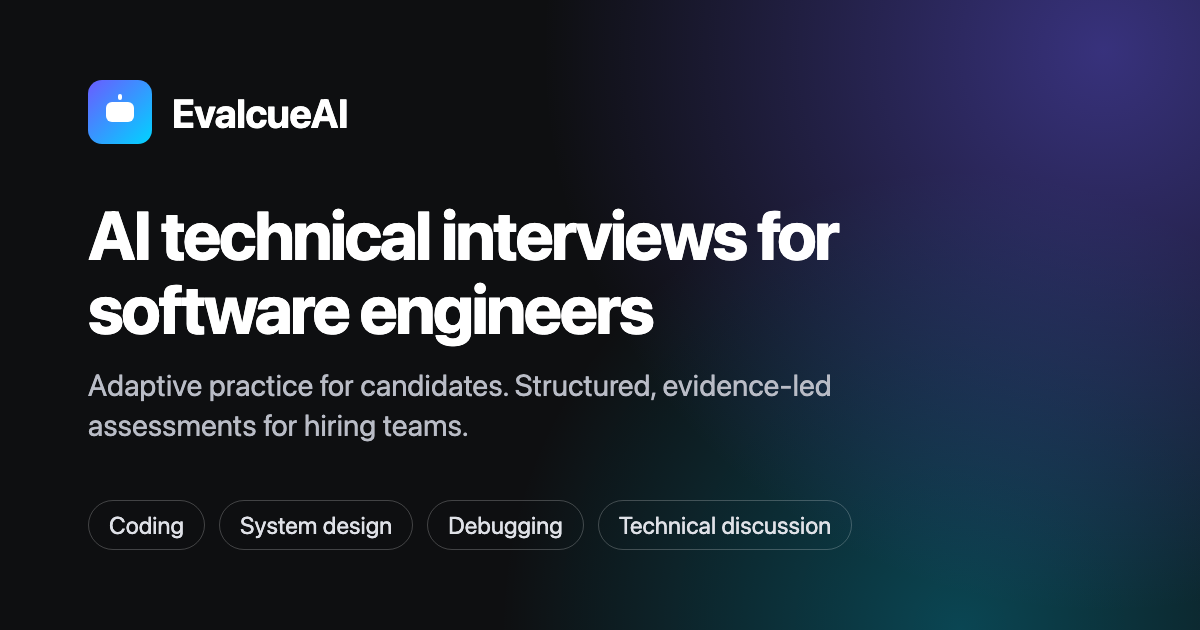
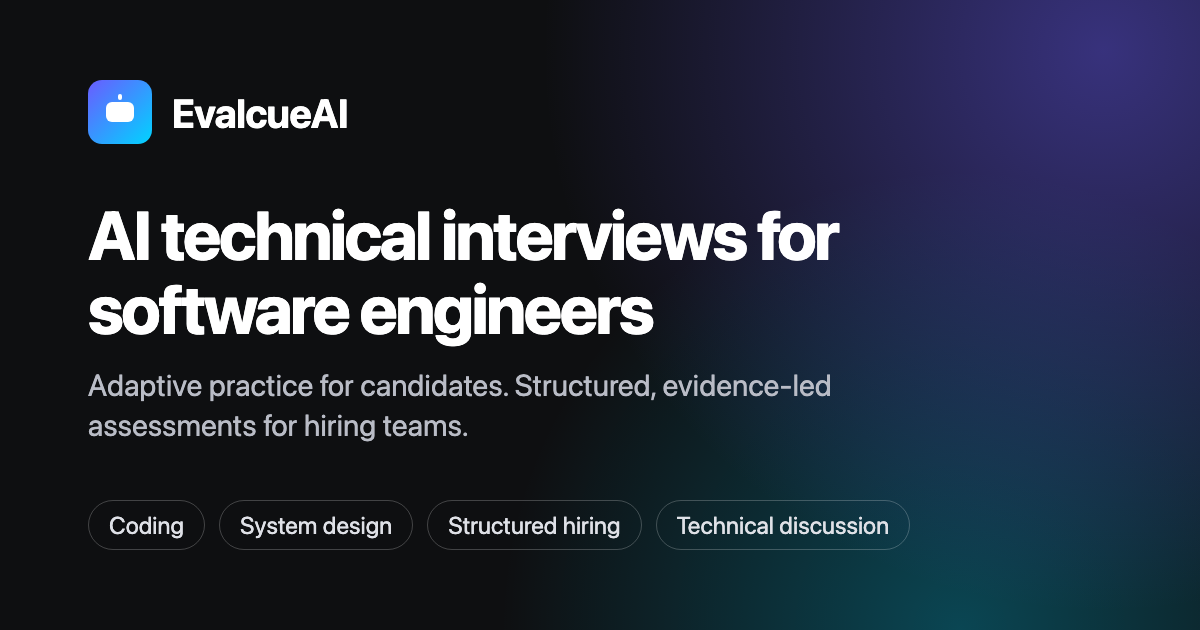
Hide debugging assignment copy behind VITE_ENABLE_DEBUGGING_ASSESSMENTS
Debugging assignments need the code runner, which is not deployed. With the flag off (default), public pages,
SEO metadata, structured data, the sitemap and llms.txt stop promising debugging rounds, hidden tests and
multi-file projects, and the debugging guide page redirects home. The social image drops its Debugging tag.
The server's ENABLE_DEBUGGING_ASSESSMENTS still gates the builder and API.

Changed region(s): [[0.37, 0.8143, 0.74, 0.8746]]

diff --git a/client/src/utils/searchLandingPages.js b/client/src/utils/searchLandingPages.js
@@ -1,3 +1,5 @@
+import { debuggingCopy, debuggingItems } from "./featureFlags.js";
+
 export const SEARCH_LANDING_PAGES = [
     {
         slug: "ai-interview-practice",
@@ -323,11 +325,11 @@ export const SEARCH_LANDING_PAGES = [
             ["Can I practice Java backend interviews?", "Yes. EvalcueAI already includes Java-oriented practice covering core Java, collections, concurrency, and backend engineering topics."],
             ["Are backend interviews only coding interviews?", "No. Many backend roles combine coding with API and database design, debugging, distributed-systems reasoning, production reliability, and system design."],
         ],
-        related: ["system-design-interview-practice", "technical-interview-practice", "debugging-interview-practice"],
+        related: ["system-design-interview-practice", "technical-interview-practice", debuggingCopy("debugging-interview-practice", "software-engineer-interview-practice")],
         practiceResource: "java-interview-questions",
         schema: "TechArticle",
     },
-    {
+    ...debuggingItems({
         slug: "debugging-interview-practice",
         path: "/debugging-interview-practice",
         audience: "Engineers facing debugging or \"fix this codebase\" rounds, and anyone who wants to practice production-style diagnosis.",
@@ -390,7 +392,7 @@ export const SEARCH_LANDING_PAGES = [
         related: ["backend-engineer-interview-practice", "technical-interview-practice", "software-engineer-interview-practice"],
         practiceResource: "software-engineer-mock-interview",
         schema: "TechArticle",
-    },
+    }),
     {
         slug: "system-design",
         path: "/system-design",
@@ -803,11 +805,11 @@ export const SEARCH_LANDING_PAGES = [
         slug: "ai-interview-platform",
         path: "/ai-interview-platform",
         title: "AI Interview Platform for Software Engineering",
-        metaTitle: "AI Interview Platform for Coding, System Design & Debugging | EvalcueAI",
-        description: "EvalcueAI is an AI interview platform built for software engineering: coding, system design, debugging, and technical interviews with adaptive follow-ups, for both candidate practice and structured hiring.",
+        metaTitle: `AI Interview Platform for Coding, System Design ${debuggingCopy("& Debugging", "& Technical Interviews")} | EvalcueAI`,
+        description: `EvalcueAI is an AI interview platform built for software engineering: coding, system design, ${debuggingCopy("debugging, ")}and technical interviews with adaptive follow-ups, for both candidate practice and structured hiring.`,
         eyebrow: "AI interview platform",
         audience: "Software engineers preparing for technical interviews, and engineering teams that want structured, evidence-based technical assessments with human hiring decisions.",
-        intro: "Most AI interview tools are built for general hiring. EvalcueAI is built for engineering: the interviewer runs coding, system-design, debugging, and technical-discussion rounds, asks follow-ups based on what you actually said, and records the evidence behind every score.",
+        intro: `Most AI interview tools are built for general hiring. EvalcueAI is built for engineering: the interviewer runs coding, system-design, ${debuggingCopy("debugging, ")}and technical-discussion rounds, asks follow-ups based on what you actually said, and records the evidence behind every score.`,
         sections: [
             {
                 heading: "What EvalcueAI is",
@@ -822,11 +824,11 @@ export const SEARCH_LANDING_PAGES = [
             {
                 heading: "What it can evaluate",
                 body: "Each round type collects a different kind of engineering signal, so EvalcueAI treats them as separate rounds with their own competencies. It does not run them as one generic question-and-answer session.",
-                points: ["Coding: correctness, complexity, code quality", "System design: requirements, architecture, scale, trade-offs", "Debugging: diagnosis and fixes checked by hidden tests", "Technical depth: trade-offs, failure modes, production judgment"],
+                points: ["Coding: correctness, complexity, code quality", "System design: requirements, architecture, scale, trade-offs", ...debuggingItems("Debugging: diagnosis and fixes checked by hidden tests"), "Technical depth: trade-offs, failure modes, production judgment"],
             },
         ],
         faq: [
-            ["What is EvalcueAI?", "EvalcueAI is an AI interview platform for software engineering. Engineers use it to practice coding, system-design, debugging, and technical interviews with adaptive AI follow-ups, and hiring teams use it to run structured engineering assessments with human-reviewed scorecards."],
+            ["What is EvalcueAI?", `EvalcueAI is an AI interview platform for software engineering. Engineers use it to practice coding, system-design, ${debuggingCopy("debugging, ")}and technical interviews with adaptive AI follow-ups, and hiring teams use it to run structured engineering assessments with human-reviewed scorecards.`],
             ["Is EvalcueAI the same as EvalAI?", "No. EvalAI is an open-source platform for evaluating machine-learning models on benchmarks. EvalcueAI is a separate product for software engineering interview practice and technical hiring."],
             ["Does EvalcueAI make hiring decisions?", "No. EvalcueAI produces evidence and scores. Advance, hold, or reject decisions are recorded by a human reviewer, who must write an evidence note to support the decision."],
         ],
@@ -839,15 +841,15 @@ export const SEARCH_LANDING_PAGES = [
         path: "/engineering-assessment",
         title: "Structured Engineering Assessments with AI Interviews",
         metaTitle: "Engineering Assessment Platform with Adaptive AI Interviews | EvalcueAI",
-        description: "Build structured software engineering assessments with coding, system design, debugging, and adaptive technical interviews, then review evidence-based scorecards with human-controlled hiring decisions.",
+        description: `Build structured software engineering assessments with coding, system design, ${debuggingCopy("debugging, ")}and adaptive technical interviews, then review evidence-based scorecards with human-controlled hiring decisions.`,
         eyebrow: "Engineering assessments",
         audience: "Engineering managers, hiring managers, and recruiters hiring software engineers who want consistent technical signal without scheduling a live interviewer for every early-stage candidate.",
-        intro: "A take-home or a single coding test shows only a small part of how an engineer works. EvalcueAI Hire combines coding, system design, debugging, and adaptive technical discussion in one structured assessment, and every score links back to what the candidate actually said or wrote.",
+        intro: `A take-home or a single coding test shows only a small part of how an engineer works. EvalcueAI Hire combines coding, system design, ${debuggingCopy("debugging, ")}and adaptive technical discussion in one structured assessment, and every score links back to what the candidate actually said or wrote.`,
         sections: [
             {
                 heading: "Design the assessment around the role",
                 body: "Start from a job description or a template, choose the rounds, and set the rubric. EvalcueAI turns each round into weighted competencies so every candidate for the role is measured against the same plan.",
-                points: ["Role-specific rounds and weighted competencies", "Coding, system design, debugging, and discussion rounds", "Multi-file debugging projects with hidden tests", "Invite-only links, time windows, and time limits"],
+                points: ["Role-specific rounds and weighted competencies", `Coding, system design, ${debuggingCopy("debugging, ")}and discussion rounds`, ...debuggingItems("Multi-file debugging projects with hidden tests"), "Invite-only links, time windows, and time limits"],
             },
             {
                 heading: "Adaptive interviews, consistent evidence",
@@ -862,7 +864,7 @@ export const SEARCH_LANDING_PAGES = [
         ],
         faq: [
             ["What is an engineering assessment?", "An engineering assessment is a structured evaluation of a software engineering candidate across the skills the role needs, such as coding, system design, debugging, and technical judgment. Every candidate is measured against the same competencies and rubric."],
-            ["How is EvalcueAI different from a coding test?", "A coding test mostly measures whether code passes. EvalcueAI also runs system-design and debugging rounds and asks adaptive follow-ups about trade-offs, failure modes, and resume claims, then shows the evidence behind each score."],
+            ["How is EvalcueAI different from a coding test?", `A coding test mostly measures whether code passes. EvalcueAI also runs system-design ${debuggingCopy("and debugging ")}rounds and asks adaptive follow-ups about trade-offs, failure modes, and resume claims, then shows the evidence behind each score.`],
             ["Can candidates be rejected automatically?", "No. EvalcueAI does not make employment decisions. A human reviewer records every decision along with a written evidence note."],
         ],
         related: ["ai-interview-platform", "ai-interview-evaluation-methodology", "system-design-interview-practice"],
@@ -875,7 +877,7 @@ export const SEARCH_LANDING_PAGES = [
         path: "/ai-interview-evaluation-methodology",
         title: "How EvalcueAI Evaluates Engineering Interviews",
         metaTitle: "AI Interview Evaluation Methodology: Scoring, Follow-ups & Difficulty | EvalcueAI",
-        description: "How EvalcueAI plans competencies, scores answers with evidence and confidence, chooses follow-up questions, adapts difficulty, evaluates coding, system design, and debugging, and keeps hiring decisions with humans.",
+        description: `How EvalcueAI plans competencies, scores answers with evidence and confidence, chooses follow-up questions, adapts difficulty, evaluates coding${debuggingCopy(", system design, and debugging", " and system design")}, and keeps hiring decisions with humans.`,
         eyebrow: "Evaluation methodology",
         audience: "Engineers who want to know how their practice answers are judged, and hiring teams deciding whether they can trust EvalcueAI's scorecards.",
         intro: "\"AI-powered\" tells you nothing about how answers are judged. This page explains, step by step, how an EvalcueAI round decides what to measure, how answers are scored, how the next question is chosen, and where a human stays in control.",
@@ -911,9 +913,9 @@ export const SEARCH_LANDING_PAGES = [
                 points: ["Interjection types: clarify, challenge, constraint, scale", "Also: failure, trade-off, security, observability", "Grounded in what you said or drew", "No hints and no ideal answer revealed"],
             },
             {
-                heading: "7. Coding and debugging are checked by running code",
-                body: "Coding answers run in a sandboxed execution service that supports JavaScript, Python, Java, and C++, and they are judged on correctness, complexity, and code quality alongside your explanation. Debugging rounds use realistic multi-file projects. In fix mode, your change is graded against hidden tests you cannot see, and assignments are validated so those tests fail only because of the intended bug. In findings mode, you submit a written diagnosis that is reviewed.",
-                points: ["Sandboxed code execution in four languages", "Multi-file debugging projects", "Fixes graded by hidden tests", "Assignments validated against unrelated failures"],
+                heading: `7. Coding ${debuggingCopy("and debugging are", "is")} checked by running code`,
+                body: `Coding answers run in a sandboxed execution service that supports JavaScript, Python, Java, and C++, and they are judged on correctness, complexity, and code quality alongside your explanation.${debuggingCopy(" Debugging rounds use realistic multi-file projects. In fix mode, your change is graded against hidden tests you cannot see, and assignments are validated so those tests fail only because of the intended bug. In findings mode, you submit a written diagnosis that is reviewed.")}`,
+                points: ["Sandboxed code execution in four languages", ...debuggingItems("Multi-file debugging projects", "Fixes graded by hidden tests", "Assignments validated against unrelated failures")],
             },
             {
                 heading: "8. A correct answer is not the same as a good engineering answer",
@@ -945,7 +947,7 @@ export const SEARCH_LANDING_PAGES = [
             ["Can EvalcueAI invent questions about my resume?", "Resume questions must be based on claims that actually appear in your resume. Generated questions are checked for details that aren't in your resume or job description, and resume probing is capped at two questions per round."],
             ["Who decides whether a candidate advances?", "A human reviewer. EvalcueAI does not make employment decisions."],
         ],
-        related: ["ai-interview-platform", "system-design-interview-practice", "debugging-interview-practice"],
+        related: ["ai-interview-platform", "system-design-interview-practice", debuggingCopy("debugging-interview-practice", "technical-interview-practice")],
         practiceResource: "software-engineer-mock-interview",
         schema: "TechArticle",
     },
@@ -954,7 +956,7 @@ export const SEARCH_LANDING_PAGES = [
         path: "/about",
         title: "About EvalcueAI",
         metaTitle: "About EvalcueAI | AI Interview Practice & Technical Hiring for Engineers",
-        description: "EvalcueAI is AI interview practice and structured technical hiring for software engineers: coding, system design, debugging, and technical interviews with adaptive follow-ups.",
+        description: `EvalcueAI is AI interview practice and structured technical hiring for software engineers: coding, system design, ${debuggingCopy("debugging, ")}and technical interviews with adaptive follow-ups.`,
         eyebrow: "About",
         audience: "Engineers preparing for technical interviews and teams looking for a more consistent way to assess candidates.",
         intro: "Technical interviews should reveal how someone approaches a problem. EvalcueAI helps engineers practice that process and helps hiring teams review it through structured assessments, adaptive follow-ups, and feedback grounded in the work submitted.",
@@ -967,7 +969,7 @@ export const SEARCH_LANDING_PAGES = [
             {
                 heading: "Supported interview types",
                 body: "Each round type is a separate interview with its own competencies. Rounds can be combined to match a real interview loop.",
-                points: ["Coding with code execution", "Live system design with an architecture canvas", "Debugging on multi-file projects with hidden tests", "Technical, backend, project-depth, and behavioral discussion"],
+                points: ["Coding with code execution", "Live system design with an architecture canvas", ...debuggingItems("Debugging on multi-file projects with hidden tests"), "Technical, backend, project-depth, and behavioral discussion"],
             },
             {
                 heading: "Terminology",

diff --git a/client/vite.config.js b/client/vite.config.js
@@ -1,3 +1,4 @@
+import "./buildEnv.js";
 import { mkdir, readFile, writeFile } from "node:fs/promises";
 import path from "node:path";
 import process from "node:process";
@@ -9,6 +10,7 @@ import {
     resourcePathsForSurface,
 } from "./src/utils/productResourcePages.js";
 import { applyStaticSeoHtml, escapeHtml, renderSeoHead } from "./src/utils/staticSeoHtml.js";
+import { debuggingCopy } from "./src/utils/featureFlags.js";
 import {
     SEARCH_LANDING_PAGES,
     searchLandingPaths,
@@ -21,6 +23,8 @@ import {
     BRAND_URLS,
     BUSINESS_LEGAL_NAME,
     HIRING_PLAN_SUMMARY,
+    HOME_DESCRIPTION,
+    HOME_TITLE,
     INTERVIEW_TYPES,
     PRACTICE_PLANS,
     breadcrumbSchema,
@@ -91,22 +95,22 @@ const resourcePageForRoute = (route) => PRODUCT_RESOURCE_PAGES.find((page) => re
 
 const STATIC_PRODUCT_COPY = {
     "/": {
-        title: "EvalcueAI | AI Coding, System Design & Debugging Interviews for Engineers",
-        description: "EvalcueAI is AI interview practice and structured technical hiring for software engineers: coding, system design, debugging, and technical interviews with adaptive AI follow-ups.",
+        title: HOME_TITLE,
+        description: HOME_DESCRIPTION,
         heading: "AI interview practice and structured technical hiring for software engineers",
-        intro: "Practice realistic coding, system-design, debugging, and technical interviews with adaptive AI follow-ups, or build evidence-focused engineering assessments for your hiring team.",
+        intro: `Practice realistic coding, system-design, ${debuggingCopy("debugging, ")}and technical interviews with adaptive AI follow-ups, or build evidence-focused engineering assessments for your hiring team.`,
     },
     "/practice": {
         title: "AI Technical Interview Practice for Software Engineers | EvalcueAI",
         description: "Practice role-specific software engineering interviews with adaptive follow-ups, coding rounds, system design, resume context, and evidence-backed feedback.",
         heading: "AI technical interview practice for software engineers",
-        intro: "Run role-specific mock interviews across technical discussion, coding, system design, debugging, and project depth, then review the evidence and feedback from each session.",
+        intro: `Run role-specific mock interviews across technical discussion, coding, system design, ${debuggingCopy("debugging, ")}and project depth, then review the evidence and feedback from each session.`,
     },
     "/hire": {
         title: "Structured Technical Hiring & AI Candidate Assessments | EvalcueAI",
         description: "Create structured engineering assessments, invite candidates, run adaptive technical interviews, and review evidence-rich scorecards with human-controlled hiring decisions.",
         heading: "Structured technical hiring for software engineering teams",
-        intro: "Create role-specific technical assessments across discussion, coding, system design, and debugging while keeping candidate evidence review and employment decisions human-controlled.",
+        intro: `Create role-specific technical assessments across discussion, coding, ${debuggingCopy("system design, and debugging", "and system design")} while keeping candidate evidence review and employment decisions human-controlled.`,
     },
 };
 

diff --git a/client/src/utils/brandEntity.js b/client/src/utils/brandEntity.js
@@ -2,11 +2,15 @@
 // Imported by the Vite prerender (vite.config.js), the runtime SEO component, and /llms.txt, so the
 // name, positioning, official URLs, and plan facts stay identical everywhere they are published.
 
+import { debuggingCopy, debuggingItems } from "./featureFlags.js";
+
 export const BRAND_NAME = "EvalcueAI";
 export const BUSINESS_LEGAL_NAME = "SAURABH MAURYA";
 export const BRAND_TAGLINE = "AI interview practice and structured technical hiring for software engineers";
-export const BRAND_POSITIONING = "Coding, system design, debugging, and technical interviews with adaptive AI follow-ups and structured engineering assessments.";
-export const BRAND_DESCRIPTION = `${BRAND_NAME} is a browser-based platform for software engineering interviews. Engineers practice coding, system-design, debugging, and technical-discussion rounds with an AI interviewer that asks adaptive follow-ups based on their answers. Hiring teams build structured engineering assessments and review evidence-based scorecards, with every hiring decision made by a human reviewer.`;
+export const BRAND_POSITIONING = `Coding, system design, ${debuggingCopy("debugging, ")}and technical interviews with adaptive AI follow-ups and structured engineering assessments.`;
+export const HOME_TITLE = `EvalcueAI | AI Coding, System Design & ${debuggingCopy("Debugging", "Technical")} Interviews for Engineers`;
+export const HOME_DESCRIPTION = `EvalcueAI is AI interview practice and structured technical hiring for software engineers: coding, system design, ${debuggingCopy("debugging, ")}and technical interviews with adaptive AI follow-ups.`;
+export const BRAND_DESCRIPTION = `${BRAND_NAME} is a browser-based platform for software engineering interviews. Engineers practice coding, system-design, ${debuggingCopy("debugging, ")}and technical-discussion rounds with an AI interviewer that asks adaptive follow-ups based on their answers. Hiring teams build structured engineering assessments and review evidence-based scorecards, with every hiring decision made by a human reviewer.`;
 
 export const BRAND_URLS = Object.freeze({
     landing: "https://evalcueai.com",
@@ -32,7 +36,7 @@ export const HIRING_PLAN_SUMMARY = "Hiring teams can start with a pilot and move
 export const INTERVIEW_TYPES = Object.freeze([
     "Coding rounds with code execution in JavaScript, Python, Java, and C++",
     "Live system-design discussion with an architecture canvas and interviewer interjections",
-    "Debugging rounds on multi-file projects, graded against hidden tests or written findings",
+    ...debuggingItems("Debugging rounds on multi-file projects, graded against hidden tests or written findings"),
     "Technical discussion by voice or text with adaptive follow-up questions",
     "Backend, distributed-systems, and project-depth rounds that probe resume claims",
     "Behavioral and ownership rounds",

diff --git a/client/src/pages/LandingPage.jsx b/client/src/pages/LandingPage.jsx
@@ -6,12 +6,13 @@ import { AuthContext } from "../context/AuthContext";
 import SiteFooter from "../components/SiteFooter";
 import PublicSiteFrame from "../components/PublicSiteFrame";
 import { setWorkspacePreference } from "../utils/workspacePreference";
+import { DEBUGGING_ASSESSMENTS_ENABLED } from "../utils/featureFlags";
 
 const guides = [
     ["01", "Coding interviews", "Practice implementation, explain your approach, and respond to follow-up questions.", "/coding-interview-practice"],
     ["02", "System design", "Work through requirements, architecture, and the trade-offs behind your decisions.", "/system-design-interview-practice"],
-    ["03", "Debugging", "Investigate a failing system and show how you isolate and resolve the problem.", "/debugging-interview-practice"],
-    ["04", "Technical discussion", "Go deeper on backend engineering, project experience, and technical judgment.", "/technical-interview-practice"],
+    ...(DEBUGGING_ASSESSMENTS_ENABLED ? [["03", "Debugging", "Investigate a failing system and show how you isolate and resolve the problem.", "/debugging-interview-practice"]] : []),
+    [DEBUGGING_ASSESSMENTS_ENABLED ? "04" : "03", "Technical discussion", "Go deeper on backend engineering, project experience, and technical judgment.", "/technical-interview-practice"],
 ];
 
 export default function LandingPage() {
@@ -57,7 +58,7 @@ export default function LandingPage() {
                 </Grid>
             </Grid>
             <Stack direction={{ xs: "column", sm: "row" }} spacing={{ xs: 1, sm: 4 }} sx={{ py: 2.5, borderTop: "1px solid", borderBottom: "1px solid", borderColor: "divider" }}>
-                {["Coding, design, debugging & discussion", "Follow-ups shaped by your answers", "Hiring decisions reviewed by people"].map((text) => <Typography key={text} variant="body2" color="text.secondary">{text}</Typography>)}
+                {[DEBUGGING_ASSESSMENTS_ENABLED ? "Coding, design, debugging & discussion" : "Coding, design & technical discussion", "Follow-ups shaped by your answers", "Hiring decisions reviewed by people"].map((text) => <Typography key={text} variant="body2" color="text.secondary">{text}</Typography>)}
             </Stack>
             <Box component="section" sx={{ py: { xs: 7, md: 10 } }} aria-labelledby="products-heading">
                 <Typography variant="overline">Two ways to use EvalcueAI</Typography>

diff --git a/client/index.html b/client/index.html
@@ -27,17 +27,17 @@
     <noscript><style>#root > [data-static-seo] { opacity: 1; animation: none; }</style></noscript>
     <script src="/theme-init.js"></script>
     <!-- seo-head:start -->
-    <meta name="description" content="EvalcueAI is AI interview practice and structured technical hiring for software engineers: coding, system design, debugging, and technical interviews with adaptive AI follow-ups." />
+    <meta name="description" content="EvalcueAI is AI interview practice and structured technical hiring for software engineers: coding, system design, and technical interviews with adaptive AI follow-ups." />
     <meta name="robots" content="index,follow" />
-    <meta property="og:title" content="EvalcueAI | AI Coding, System Design & Debugging Interviews for Engineers" />
-    <meta property="og:description" content="EvalcueAI is AI interview practice and structured technical hiring for software engineers: coding, system design, debugging, and technical interviews with adaptive AI follow-ups." />
+    <meta property="og:title" content="EvalcueAI | AI Coding, System Design & Technical Interviews for Engineers" />
+    <meta property="og:description" content="EvalcueAI is AI interview practice and structured technical hiring for software engineers: coding, system design, and technical interviews with adaptive AI follow-ups." />
     <meta property="og:type" content="website" />
     <meta property="og:site_name" content="EvalcueAI" />
     <meta property="og:locale" content="en_US" />
     <meta name="twitter:card" content="summary" />
-    <meta name="twitter:title" content="EvalcueAI | AI Coding, System Design & Debugging Interviews for Engineers" />
+    <meta name="twitter:title" content="EvalcueAI | AI Coding, System Design & Technical Interviews for Engineers" />
     <meta name="twitter:description" content="Adaptive software engineering interview practice and structured technical hiring with coding, system design, and evidence-led review." />
-    <title>EvalcueAI | AI Coding, System Design & Debugging Interviews for Engineers</title>
+    <title>EvalcueAI | AI Coding, System Design & Technical Interviews for Engineers</title>
     <!-- seo-head:end -->
   </head>
   <body>

diff --git a/client/src/__tests__/debuggingFeatureFlag.test.js b/client/src/__tests__/debuggingFeatureFlag.test.js
@@ -1,0 +1,28 @@
+import { afterEach, describe, expect, it, vi } from "vitest";
+
+// Debugging assignments need the code runner, so public copy must not promise them until the flag is on.
+const loadPublicCopy = async (flag) => {
+    vi.resetModules();
+    vi.stubEnv("VITE_ENABLE_DEBUGGING_ASSESSMENTS", flag);
+    const [{ SEARCH_LANDING_PAGES }, brand] = await Promise.all([
+        import("../utils/searchLandingPages"),
+        import("../utils/brandEntity"),
+    ]);
+    return JSON.stringify({ SEARCH_LANDING_PAGES, brand });
+};
+
+describe("debugging assessment feature flag", () => {
+    afterEach(() => vi.unstubAllEnvs());
+
+    it("keeps debugging assignments out of public copy when off", async () => {
+        const copy = await loadPublicCopy("false");
+        expect(copy).not.toMatch(/debugging-interview-practice|hidden tests|multi-file|Debugging Interviews|& Debugging/i);
+    });
+
+    it("publishes the debugging page and claims when on", async () => {
+        const copy = await loadPublicCopy("true");
+        expect(copy).toContain("debugging-interview-practice");
+        expect(copy).toMatch(/hidden tests/);
+        expect(copy).toContain("Coding, System Design & Debugging Interviews");
+    });
+});

diff --git a/client/src/components/PublicRouteSeo.jsx b/client/src/components/PublicRouteSeo.jsx
@@ -3,12 +3,12 @@ import { useLocation } from "react-router-dom";
 import Seo from "./Seo";
 import { RESOURCE_ROUTE_META, SEARCH_ROUTE_META } from "virtual:seo-route-meta";
 import { deploymentOrigins } from "../utils/deploymentSurface";
-import { BRAND_NAME, organizationSchema, publisherRef, softwareApplicationSchema } from "../utils/brandEntity";
+import { BRAND_NAME, HOME_DESCRIPTION, HOME_TITLE, organizationSchema, publisherRef, softwareApplicationSchema } from "../utils/brandEntity";
 
 const ROUTES = {
     "/": {
-        title: "EvalcueAI | AI Coding, System Design & Debugging Interviews for Engineers",
-        description: "EvalcueAI is AI interview practice and structured technical hiring for software engineers: coding, system design, debugging, and technical interviews with adaptive AI follow-ups.",
+        title: HOME_TITLE,
+        description: HOME_DESCRIPTION,
         schema: "WebSite",
     },
     "/practice": {

diff --git a/client/src/utils/featureFlags.js b/client/src/utils/featureFlags.js
@@ -1,0 +1,13 @@
+// Build-time feature flags. The app reads them from import.meta.env; vite.config.js reads the same keys from
+// process.env (filled by buildEnv.js) when it prerenders public pages, the sitemap and llms.txt.
+const readFlag = (key) => {
+    const value = import.meta.env?.[key] ?? globalThis.process?.env?.[key];
+    return String(value ?? "").trim().toLowerCase() === "true";
+};
+
+// Debugging assignments need the code runner. Until it is deployed, public copy must not promise them.
+// The server's ENABLE_DEBUGGING_ASSESSMENTS still decides whether the builder and API accept the round type.
+export const DEBUGGING_ASSESSMENTS_ENABLED = readFlag("VITE_ENABLE_DEBUGGING_ASSESSMENTS");
+
+export const debuggingCopy = (enabled, disabled = "") => DEBUGGING_ASSESSMENTS_ENABLED ? enabled : disabled;
+export const debuggingItems = (...items) => DEBUGGING_ASSESSMENTS_ENABLED ? items : [];

diff --git a/client/buildEnv.js b/client/buildEnv.js
@@ -1,0 +1,8 @@
+// Imported first by vite.config.js: copies VITE_* values from client/.env files into process.env so build-time
+// page data (src/utils/featureFlags.js) sees the same flags as the app bundle. Shell/CI variables win.
+import process from "node:process";
+import { loadEnv } from "vite";
+
+const modeIndex = process.argv.indexOf("--mode");
+const mode = modeIndex >= 0 ? process.argv[modeIndex + 1] : process.argv.includes("build") ? "production" : "development";
+for (const [key, value] of Object.entries(loadEnv(mode, process.cwd(), "VITE_"))) process.env[key] ??= value;

diff --git a/client/src/__tests__/searchLandingPages.test.js b/client/src/__tests__/searchLandingPages.test.js
@@ -38,7 +38,6 @@ describe("search-focused interview landing pages", () => {
             "/system-design-interview-practice",
             "/coding-interview-practice",
             "/backend-engineer-interview-practice",
-            "/debugging-interview-practice",
             "/system-design",
             "/system-design/url-shortener",
             "/system-design/rate-limiter",
